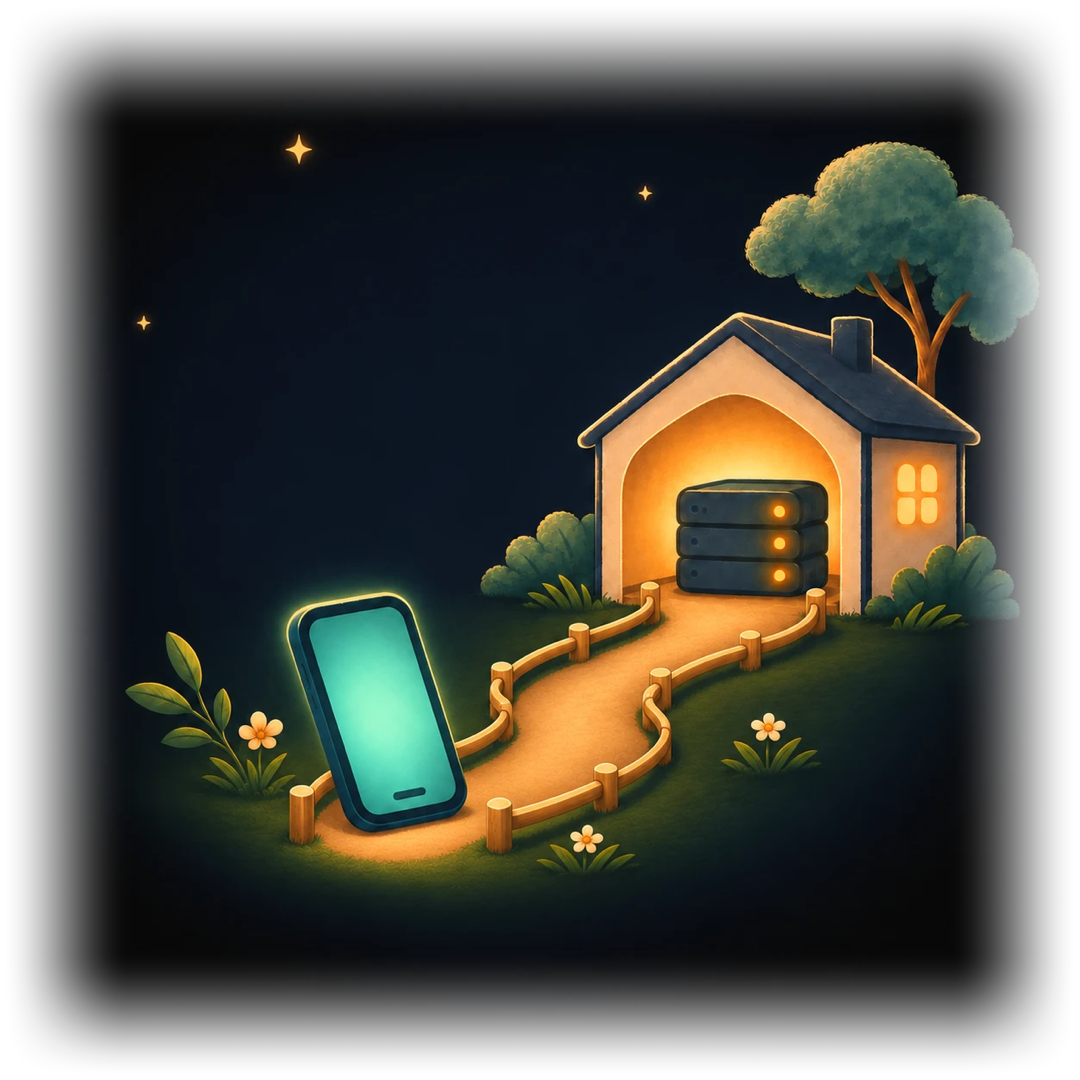
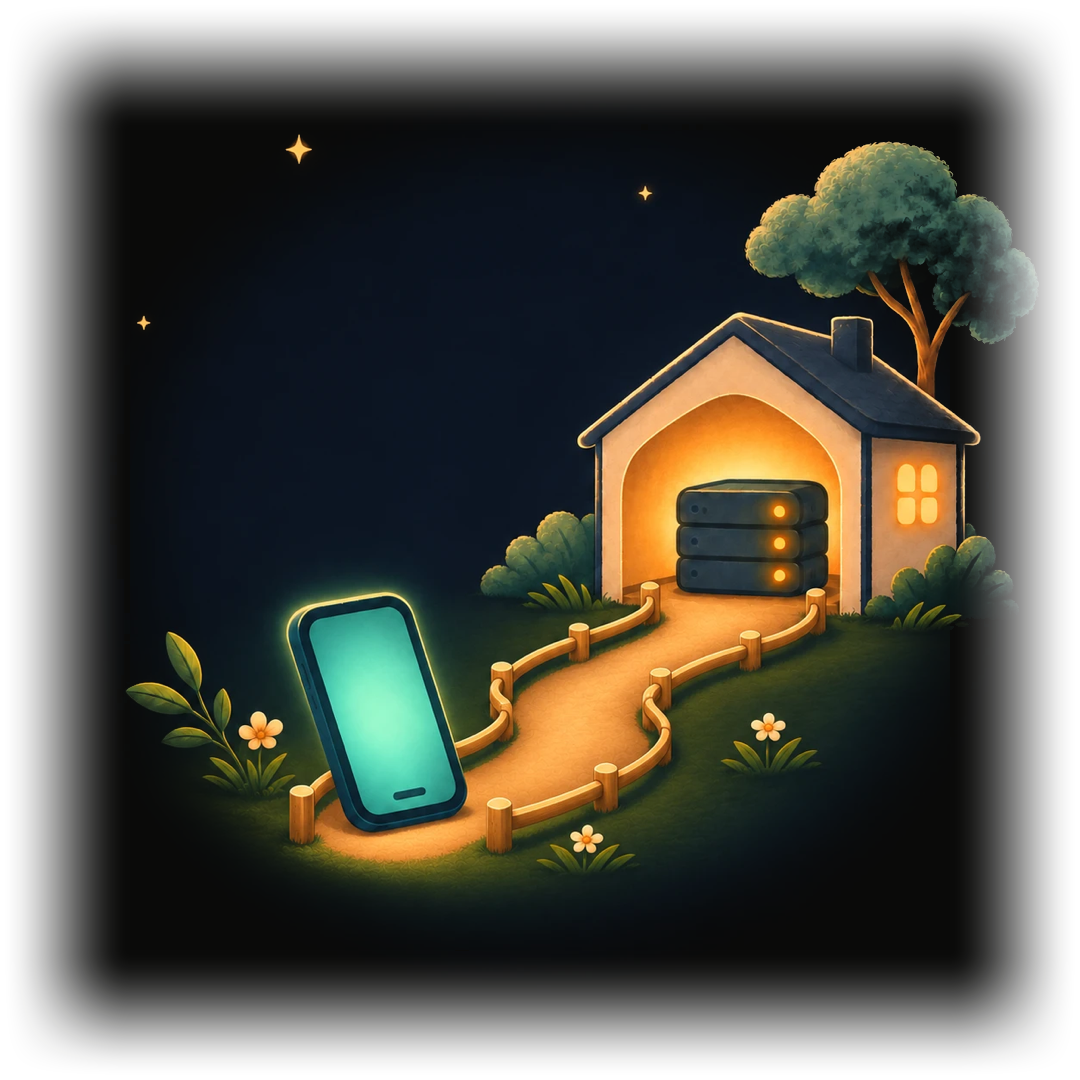
Welcome art: the picture sits on the screen with no square or border
The day painting's paper was a few steps off the screen colour, its
fade left a light fringe, and iOS draws the picture's colours a step
differently from its own background, so a pale square showed around the
art. The night painting's navy sky ran out to the square's edges.

tools/welcome-art/match-paper.swift moves the day paper onto the screen
colour and then makes only the paper see-through (the drawing stays
opaque, light parts included), and eases the night sky onto the
background in a circle. The asset is marked lossless: lossy compression
turns the soft fade into a hard-edged square. scripts/welcome-art.test.ts
lays every shipped copy (iOS, Android, webapp) over its screen colour
and fails on any step along the edges; it fails on the old art.
Checked on the iOS simulator (paper = screen, 247,246,242) and on the
Android emulator in light and dark.

Claude-Session: https://claude.ai/code/session_01QTy6J511stiVvBZhqbWGuh

diff --git a/tools/welcome-art/match-paper.swift b/tools/welcome-art/match-paper.swift
@@ -1,0 +1,111 @@
+// match-paper.swift <in.png> <out.png> <bgHex> [--measure] [--round] [--key]
+// The welcome art is a painting on paper whose edges fade to transparent, so it reads as a drawing on the screen
+// itself. That only holds when the paper is exactly the screen's background colour and the fade carries that colour
+// too: a paper a few steps off shows as a square, and light pixels left in the fade show as a white border.
+// This shifts paper-coloured pixels (and only those: the drawing stays opaque and unchanged) onto the background
+// colour and gives the fade the background colour. --round (the night painting, whose paper is a navy sky glow, not a
+// flat colour) also eases that paper onto the background in a circle, so the glow never reaches the square's edges.
+// --key (the day painting) then makes the paper itself transparent: whatever is within a few steps of the paper goes
+// fully see-through and the alpha comes back smoothly by 24 steps, so the drawing stays opaque (light parts of it are
+// never see-through) while the screen shows its own colour wherever there is paper. A device that draws the picture's
+// colours a step differently from its own background (simulator measurement, 2026-11-27) then shows no square. --measure only prints how far the art, laid over the background,
+// strays from it along the edges, where only paper should be (the check scripts/welcome-art.test.ts runs).
+import Foundation; import CoreGraphics; import ImageIO; import UniformTypeIdentifiers
+
+let args = CommandLine.arguments
+let measureOnly = args.contains("--measure")
+let round = args.contains("--round")
+let key = args.contains("--key")
+let img = CGImageSourceCreateImageAtIndex(CGImageSourceCreateWithURL(URL(fileURLWithPath: args[1]) as CFURL, nil)!, 0, nil)!
+let hex = UInt32(args[3], radix: 16)!
+let bg = [Int((hex >> 16) & 255), Int((hex >> 8) & 255), Int(hex & 255)]
+let w = img.width, h = img.height
+let cs = CGColorSpace(name: CGColorSpace.sRGB)!
+var px = [UInt8](repeating: 0, count: w * h * 4)
+let ctx = CGContext(data: &px, width: w, height: h, bitsPerComponent: 8, bytesPerRow: w * 4, space: cs,
+                    bitmapInfo: CGImageAlphaInfo.premultipliedLast.rawValue)!
+ctx.draw(img, in: CGRect(x: 0, y: 0, width: w, height: h))
+
+func rgb(_ i: Int) -> [Int] {
+  let a = Int(px[i + 3]); if a == 0 { return bg }
+  return (0..<3).map { min(255, (Int(px[i + $0]) * 255 + a / 2) / a) }
+}
+func dist(_ a: [Int], _ b: [Int]) -> Int { zip(a, b).map { abs($0 - $1) }.max()! }
+
+// The paper: the commonest opaque colour.
+var counts: [Int: Int] = [:]
+for i in stride(from: 0, to: px.count, by: 4) where px[i + 3] == 255 {
+  counts[(Int(px[i]) << 16) | (Int(px[i + 1]) << 8) | Int(px[i + 2]), default: 0] += 1
+}
+let pk = counts.max { $0.value < $1.value }!.key
+let paper = [(pk >> 16) & 255, (pk >> 8) & 255, pk & 255]
+let delta = (0..<3).map { bg[$0] - paper[$0] }
+let reach = 24  // colours within this many steps of the paper are paper (texture); the drawing is far outside it
+
+// Composite over the background. A border or a square is a step along a whole edge, so take the median of every row
+// and column of the outer band (the drawing reaches into the band here and there; a median ignores it) and report
+// the worst one, as the largest per-channel distance from the background.
+func measure() -> (worst: Int, at: String) {
+  let band = Int(Double(min(w, h)) * 0.2)
+  // Only what the drawing sits on: the fade, and opaque pixels within reach of the paper (or of the background).
+  func diff(_ x: Int, _ y: Int) -> Int? {
+    let i = (y * w + x) * 4; let a = Int(px[i + 3]); let c = rgb(i)
+    if a == 255 && min(dist(c, paper), dist(c, bg)) >= reach { return nil }
+    return dist((0..<3).map { (c[$0] * a + bg[$0] * (255 - a) + 127) / 255 }, bg)
+  }
+  func median(_ v: [Int?]) -> Int { let s = v.compactMap { $0 }.sorted(); return s.isEmpty ? 0 : s[s.count / 2] }
+  var worst = 0, at = ""
+  for k in 0..<band {
+    let lines: [(String, [Int?])] = [
+      ("row \(k)", (0..<w).map { diff($0, k) }), ("row \(h - 1 - k)", (0..<w).map { diff($0, h - 1 - k) }),
+      ("col \(k)", (0..<h).map { diff(k, $0) }), ("col \(w - 1 - k)", (0..<h).map { diff(w - 1 - k, $0) }),
+    ]
+    for (name, v) in lines { let m = median(v); if m > worst { worst = m; at = name } }
+  }
+  return (worst, at)
+}
+
+if measureOnly { let m = measure(); print("worst edge-line median distance \(m.worst) at \(m.at)"); exit(0) }
+
+print("paper \(paper) -> background \(bg)")
+
+for i in stride(from: 0, to: px.count, by: 4) {
+  let a = Int(px[i + 3]); if a == 0 { continue }
+  var c = rgb(i)
+  let d = dist(c, paper)
+  let greyish = c.max()! - c.min()! <= 12
+  if a < 255 && (d <= 10 || (a < 64 && greyish && d <= 3 * reach)) {
+    // The fade, where it is paper (or the faint light or dark fringe at its outer edge): exactly the background
+    // colour, so whatever its alpha the screen shows the background. Shading that reaches into the fade keeps its colour.
+    c = bg
+  } else if d < reach && !round {
+    // The paper's texture moves with it in full (so it stays centred on the background); the shift then eases out
+    // towards the drawing.
+    let k = d <= 8 ? 1.0 : Double(reach - d) / Double(reach - 8)
+    c = (0..<3).map { max(0, min(255, c[$0] + Int((Double(delta[$0]) * k).rounded()))) }
+  }
+  if round && c.max()! < 96 {
+    // Distance from the centre, 1 at the middle of an edge; the paper keeps its colour inside 0.62 and is the
+    // background by 0.92, on a smooth curve.
+    let p = (i / 4); let x = Double(p % w) / Double(w - 1) * 2 - 1, y = Double(p / w) / Double(h - 1) * 2 - 1
+    let r = (x * x + y * y).squareRoot()
+    let t = max(0, min(1, (r - 0.62) / (0.92 - 0.62))); let keep = 1 - t * t * (3 - 2 * t)
+    // Sky: every dark pixel (the glow, the darkest grass); bright drawing (stars, windows, the phone) keeps its colour.
+    let paperness = max(0, min(1, Double(96 - c.max()!) / 40))
+    let m = 1 - paperness * (1 - keep)
+    c = (0..<3).map { Int((Double(bg[$0]) + Double(c[$0] - bg[$0]) * m).rounded()) }
+  }
+  var na = a
+  if key {
+    let dp = dist(c, bg)
+    let keep = dp <= 6 ? 0.0 : min(1.0, Double(dp - 6) / Double(reach - 6))
+    na = Int((Double(a) * keep).rounded())
+  }
+  px[i + 3] = UInt8(na)
+  for j in 0..<3 { px[i + j] = UInt8((c[j] * na + 127) / 255) }
+}
+let m = measure(); print("after: worst edge-line median distance \(m.worst) at \(m.at)")
+let out = CGContext(data: &px, width: w, height: h, bitsPerComponent: 8, bytesPerRow: w * 4, space: cs,
+                    bitmapInfo: CGImageAlphaInfo.premultipliedLast.rawValue)!.makeImage()!
+let dst = CGImageDestinationCreateWithURL(URL(fileURLWithPath: args[2]) as CFURL, UTType.png.identifier as CFString, 1, nil)!
+CGImageDestinationAddImage(dst, out, nil); CGImageDestinationFinalize(dst)

diff --git a/scripts/welcome-art.test.ts b/scripts/welcome-art.test.ts
@@ -1,0 +1,111 @@
+// The welcome art must read as a drawing on the welcome screen itself: no square, no border, no fringe where the
+// painting meets the screen (owner, 2026-11-27). Each picture is laid over the background colour it is shown on, and
+// along every edge the paper and the fade must match that colour and change only smoothly: a border or a square is a
+// step along a whole edge. Only paper and fade pixels count (the drawing reaches the edge band here and there).
+// Fix a failure with tools/welcome-art/match-paper.swift, never by drawing a frame around the picture.
+import { execFileSync } from "node:child_process";
+import { existsSync, mkdtempSync, readFileSync, rmSync } from "node:fs";
+import { tmpdir } from "node:os";
+import { join } from "node:path";
+import { PNG } from "pngjs";
+import { describe, expect, it } from "vitest";
+
+const ROOT = join(__dirname, "..");
+const DAY_BG = [0xf7, 0xf6, 0xf2]; // --canvas, FSColors light bg, Tokens.kt LightColors.bg
+const NIGHT_BG = [0x0a, 0x0a, 0x09]; // the dark canvas on all three
+
+const PICTURES = [
+  { file: "apps/mobile/ios/App/Resources/Assets.xcassets/WelcomeArt.imageset/welcome-day.png", bg: DAY_BG },
+  { file: "apps/mobile/ios/App/Resources/Assets.xcassets/WelcomeArt.imageset/welcome-night.png", bg: NIGHT_BG },
+  { file: "apps/web/public/webapp/welcome-day.png", bg: DAY_BG },
+  { file: "apps/web/public/webapp/welcome-night.png", bg: NIGHT_BG },
+  { file: "apps/mobile/android/app/src/main/res/drawable-nodpi/welcome_day.webp", bg: DAY_BG },
+  { file: "apps/mobile/android/app/src/main/res/drawable-nodpi/welcome_night.webp", bg: NIGHT_BG },
+];
+
+function hasDwebp(): boolean {
+  try {
+    execFileSync("dwebp", ["-version"], { stdio: "ignore" });
+    return true;
+  } catch {
+    return false;
+  }
+}
+
+function decode(file: string): PNG {
+  if (file.endsWith(".png")) return PNG.sync.read(readFileSync(join(ROOT, file)));
+  const dir = mkdtempSync(join(tmpdir(), "welcome-art-"));
+  try {
+    const out = join(dir, "art.png");
+    execFileSync("dwebp", ["-quiet", join(ROOT, file), "-o", out]);
+    return PNG.sync.read(readFileSync(out));
+  } finally {
+    rmSync(dir, { recursive: true, force: true });
+  }
+}
+
+/** Per edge line of the outer fifth: the median distance of the composited paper/fade pixels from the background. */
+export function edgeProfile(png: PNG, bg: number[]): { name: string; medians: number[] }[] {
+  const { width: w, height: h, data } = png;
+  const at = (x: number, y: number): number | null => {
+    const i = (y * w + x) * 4;
+    const a = data[i + 3]!;
+    const c = [data[i]!, data[i + 1]!, data[i + 2]!];
+    // The drawing: opaque and far from the background. It is not what this test is about.
+    if (a === 255 && Math.max(...c.map((v, k) => Math.abs(v - bg[k]!))) >= 24) return null;
+    const comp = c.map((v, k) => Math.round((v * a + bg[k]! * (255 - a)) / 255));
+    return Math.max(...comp.map((v, k) => Math.abs(v - bg[k]!)));
+  };
+  const median = (v: (number | null)[]): number => {
+    const s = v.filter((x): x is number => x !== null).sort((p, q) => p - q);
+    return s.length ? s[s.length >> 1]! : 0;
+  };
+  const band = Math.floor(Math.min(w, h) * 0.2);
+  const sides = [
+    { name: "top", line: (k: number) => Array.from({ length: w }, (_, x) => at(x, k)) },
+    { name: "bottom", line: (k: number) => Array.from({ length: w }, (_, x) => at(x, h - 1 - k)) },
+    { name: "left", line: (k: number) => Array.from({ length: h }, (_, y) => at(k, y)) },
+    { name: "right", line: (k: number) => Array.from({ length: h }, (_, y) => at(w - 1 - k, y)) },
+  ];
+  return sides.map((s) => ({ name: s.name, medians: Array.from({ length: band }, (_, k) => median(s.line(k))) }));
+}
+
+describe("welcome art blends into the welcome screen", () => {
+  const dwebp = hasDwebp();
+  for (const p of PICTURES) {
+    const run = p.file.endsWith(".webp") && !dwebp ? it.skip : it;
+    run(`${p.file.split("/").pop()} (${p.file.split("/")[2]}): no border, no square`, () => {
+      expect(existsSync(join(ROOT, p.file))).toBe(true);
+      const png = decode(p.file);
+      for (const side of edgeProfile(png, p.bg)) {
+        // Where the art meets the screen it is the screen.
+        expect(Math.max(...side.medians.slice(0, 8)), `${side.name} edge`).toBeLessThanOrEqual(1);
+        // No step anywhere along the edge band: a border or a square shows as a jump between neighbouring lines.
+        const steps = side.medians.slice(1).map((m, k) => Math.abs(m - side.medians[k]!));
+        expect(Math.max(...steps), `${side.name} step`).toBeLessThanOrEqual(2);
+      }
+    });
+  }
+
+  it("the day picture's paper is the day background (no square however faint)", () => {
+    const png = decode(PICTURES[0]!.file);
+    for (const side of edgeProfile(png, DAY_BG)) expect(Math.max(...side.medians), side.name).toBeLessThanOrEqual(2);
+  });
+
+  it("the app shows the picture with no frame around it", () => {
+    const ios = readFileSync(join(ROOT, "apps/mobile/ios/Sources/FlagshipUI/Screens/WelcomeScreen.swift"), "utf8");
+    const art = ios.slice(ios.indexOf("private struct WelcomeArt"));
+    expect(art.slice(0, art.indexOf("\n}\n"))).not.toMatch(/\.(border|overlay|background|clipShape|shadow|cornerRadius)\(/);
+    const android = readFileSync(
+      join(ROOT, "apps/mobile/android/app/src/main/java/com/flagshipserver/app/ui/screens/WelcomeScreen.kt"),
+      "utf8",
+    );
+    const fn = android.slice(android.indexOf("private fun WelcomeArt"));
+    expect(fn.slice(0, fn.indexOf("\n}\n"))).not.toMatch(/\.(border|background|clip|shadow)\(/);
+    const contents = JSON.parse(
+      readFileSync(join(ROOT, "apps/mobile/ios/App/Resources/Assets.xcassets/WelcomeArt.imageset/Contents.json"), "utf8"),
+    );
+    // Lossy asset compression (HEVC) turns the soft fade into a hard-edged square.
+    expect(contents.properties["compression-type"]).toBe("lossless");
+  });
+});
